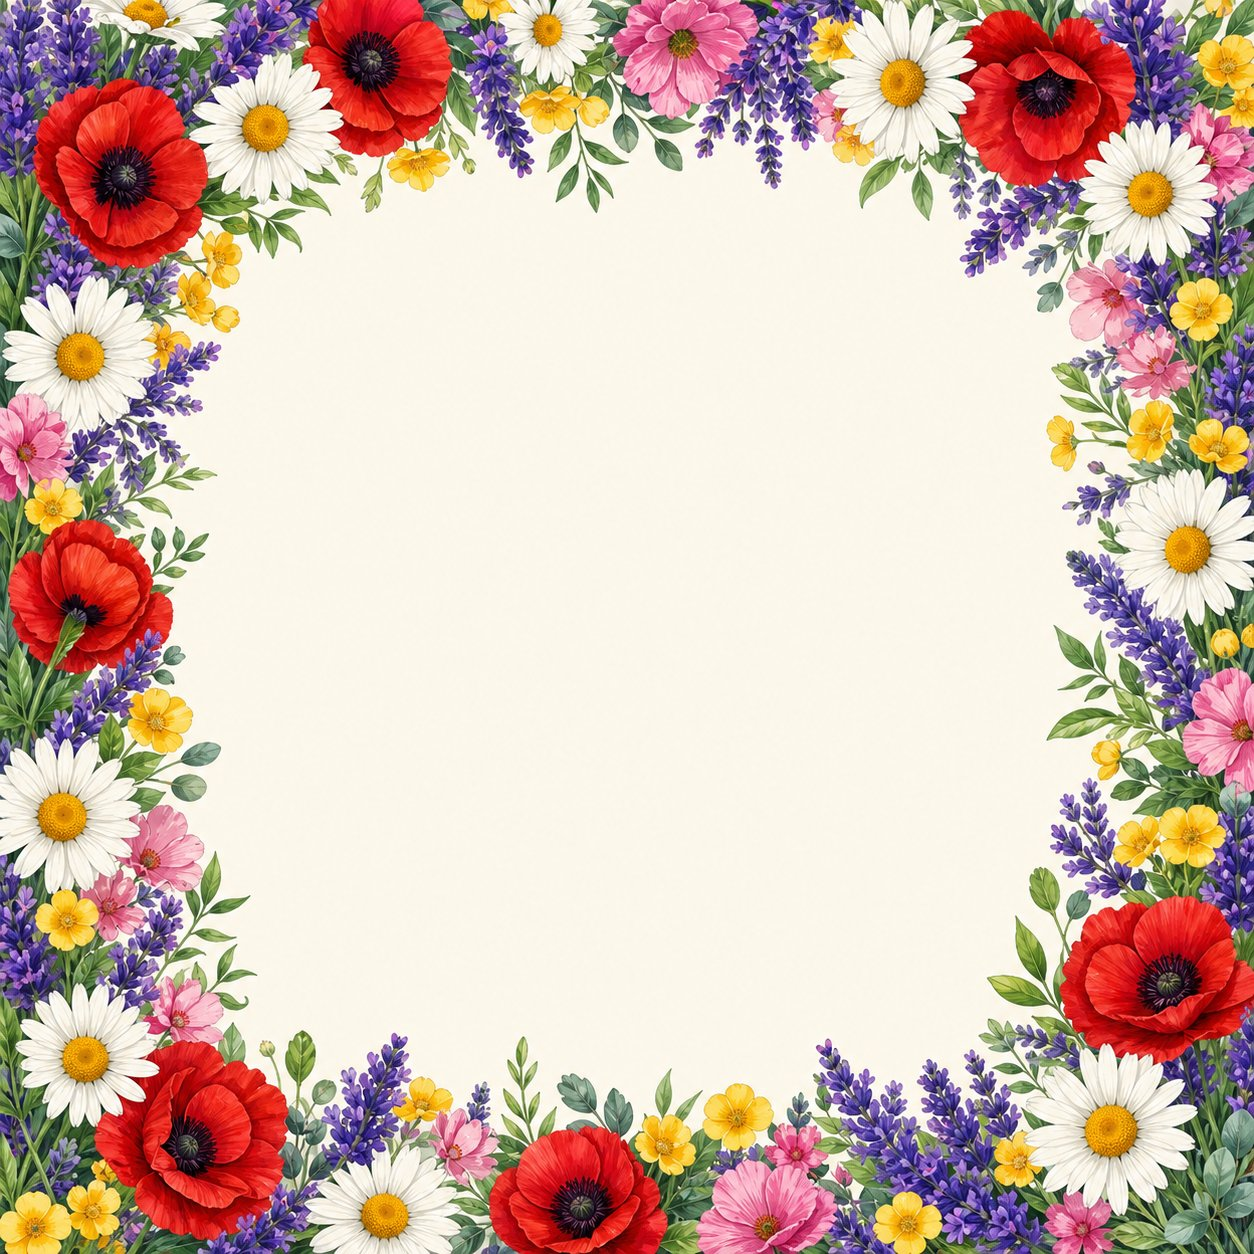
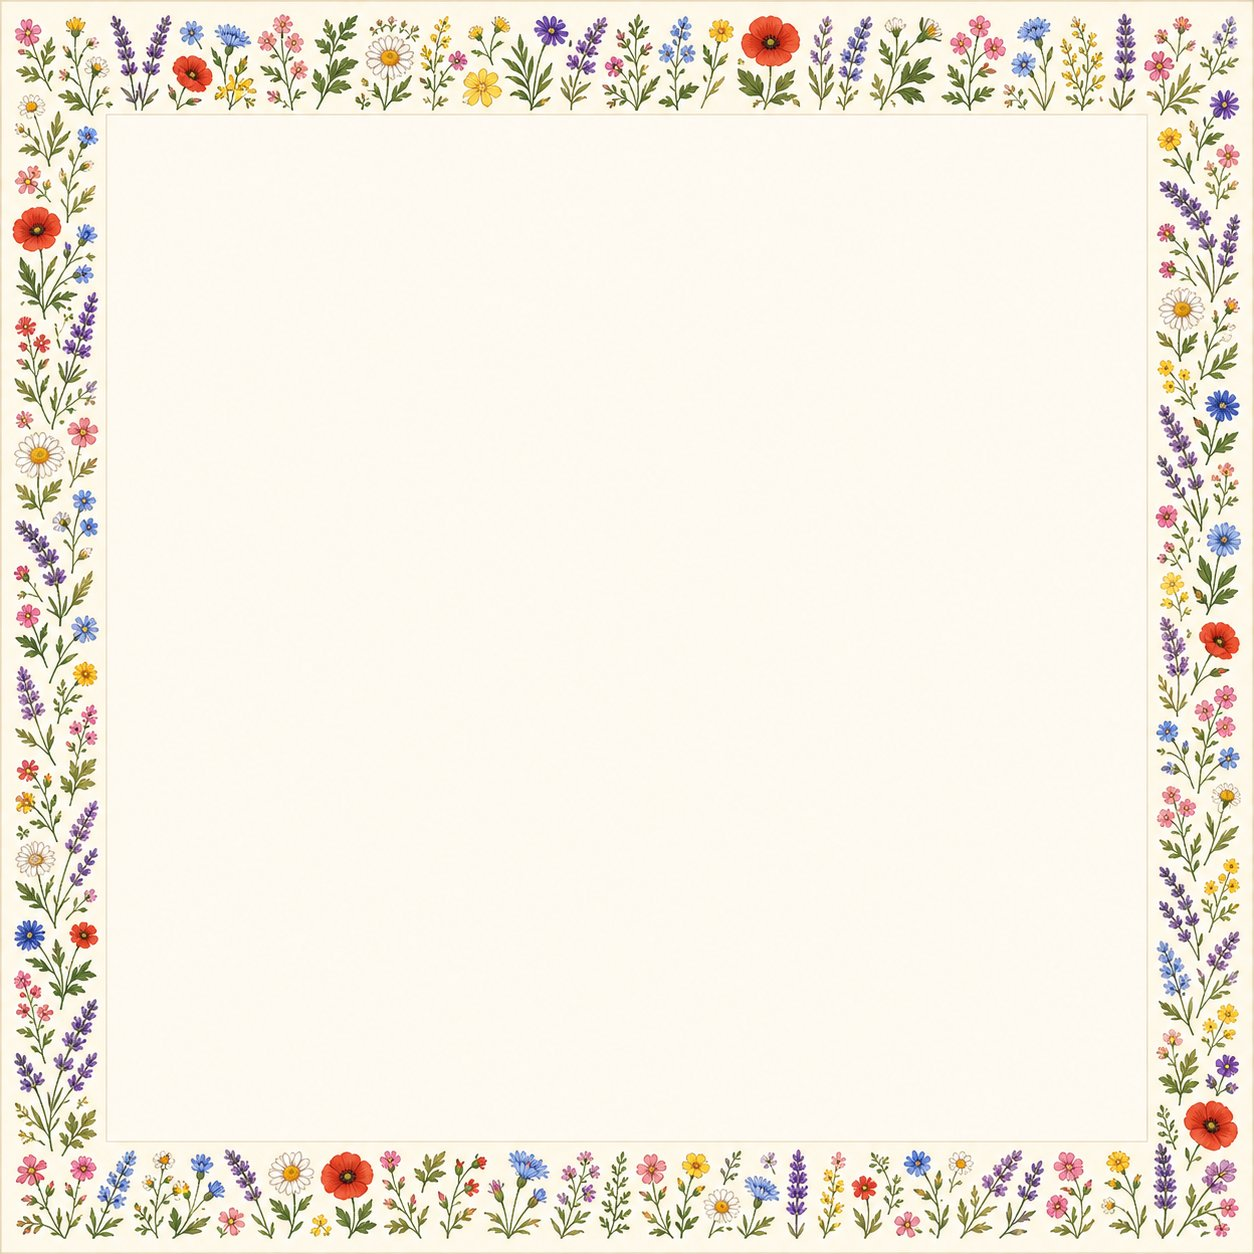
Frames: ornaments no longer trim — feathered card + small complete motifs
User review: the card's hard edge sliced ornament tips (the inner side of
the frame art looked trimmed).

- Feathered card edge (soft blurred halo + solid quiet-zone plate): frame
  ornaments now dissolve gently into the card instead of being cut — fixes
  every frame at render time, verified quiet zone stays pure paper
- Regenerated 6 motif-heavy frames with SMALL COMPLETE ornaments in a
  narrow edge band (sunflower, wildflower, garden, sakura, peacock, royal):
  nothing is cut at the band's inner edge
- 4 new designs + 'Frames' presets: Persian Medallion, Rose Garden, Pine
  Forest, Ocean Wave (23 total) — all ZXing 92/92 + jsQR 92/92 at 512/1024

diff --git a/src/lib/qr/presets.ts b/src/lib/qr/presets.ts
@@ -2554,6 +2554,66 @@ const FRAME_PRESETS: Preset[] = [
       ballShape: "extra-rounded",
     },
   }),
+  frameLook({
+    id: "look-persian",
+    name: "Persian Medallion",
+    blurb: "Gold-teal medallions on ivory",
+    frame: "decor-persian",
+    style: {
+      bg: "#F6F1E7",
+      fg: "#14495A",
+      eyeColor: "#7A6218",
+      ballColor: "#14495A",
+      moduleShape: "squircle",
+      eyeShape: "rounded",
+      ballShape: "rounded",
+    },
+  }),
+  frameLook({
+    id: "look-roses",
+    name: "Rose Garden",
+    blurb: "Cottage roses on blush cream",
+    frame: "decor-roses",
+    style: {
+      bg: "#FBF2EC",
+      fg: "#5C1A33",
+      eyeColor: "#A8265E",
+      ballColor: "#5C1A33",
+      moduleShape: "rounded",
+      eyeShape: "rounded",
+      ballShape: "rounded",
+    },
+  }),
+  frameLook({
+    id: "look-pines",
+    name: "Pine Forest",
+    blurb: "Nordic pines on pale green",
+    frame: "decor-pines",
+    style: {
+      bg: "#EDF4EC",
+      fg: "#1C3B22",
+      eyeColor: "#2D6A3E",
+      ballColor: "#1C3B22",
+      moduleShape: "squircle",
+      eyeShape: "square",
+      ballShape: "square",
+    },
+  }),
+  frameLook({
+    id: "look-ocean",
+    name: "Ocean Wave",
+    blurb: "Curling waves on pale aqua",
+    frame: "decor-ocean",
+    style: {
+      bg: "#EAF5FA",
+      fg: "#0C3D5C",
+      eyeColor: "#0E7490",
+      ballColor: "#0C3D5C",
+      moduleShape: "dots",
+      eyeShape: "extra-rounded",
+      ballShape: "extra-rounded",
+    },
+  }),
 ];
 
 export const PRESETS: Preset[] = [...STYLE_PRESETS, ...buildPresets(), ...PHOTO_PRESETS, ...ART_PRESETS, ...SCENE_PRESETS, ...SALON_PRESETS, ...THEMES_PRESETS, ...FRAME_PRESETS];

diff --git a/src/lib/qr/frames.ts b/src/lib/qr/frames.ts
@@ -35,7 +35,11 @@ export type FrameId =
   | "decor-sunflower"
   | "decor-henna"
   | "decor-arabesque"
-  | "decor-feather";
+  | "decor-feather"
+  | "decor-persian"
+  | "decor-roses"
+  | "decor-pines"
+  | "decor-ocean";
 
 export const FRAME_IDS: FrameId[] = [
   "none",
@@ -65,6 +69,10 @@ export const FRAME_IDS: FrameId[] = [
   "decor-henna",
   "decor-arabesque",
   "decor-feather",
+  "decor-persian",
+  "decor-roses",
+  "decor-pines",
+  "decor-ocean",
 ];
 
 export interface FrameDef {
@@ -103,6 +111,10 @@ export const FRAME_DEFS: FrameDef[] = [
   { id: "decor-henna", label: "Henna", hint: "Mehndi mandala lace" },
   { id: "decor-arabesque", label: "Arabesque", hint: "Geometric tilework" },
   { id: "decor-feather", label: "Peacock", hint: "Peacock feather plumes" },
+  { id: "decor-persian", label: "Persian", hint: "Medallions and paisley" },
+  { id: "decor-roses", label: "Roses", hint: "Cottage rose garland" },
+  { id: "decor-pines", label: "Pine", hint: "Nordic pine forest" },
+  { id: "decor-ocean", label: "Ocean", hint: "Curling waves and shells" },
 ];
 
 /** Decorative frame artwork (public assets) — drawn under the code's card. */
@@ -126,6 +138,10 @@ export const FRAME_ART: Partial<Record<FrameId, string>> = {
   "decor-henna": "/frames/henna.jpg",
   "decor-arabesque": "/frames/arabesque.jpg",
   "decor-feather": "/frames/feather.jpg",
+  "decor-persian": "/frames/persian.jpg",
+  "decor-roses": "/frames/roses.jpg",
+  "decor-pines": "/frames/pines.jpg",
+  "decor-ocean": "/frames/ocean.jpg",
 };
 
 export function isDecorFrame(id: FrameId | string): boolean {

diff --git a/src/lib/qr/render.ts b/src/lib/qr/render.ts
@@ -824,11 +824,22 @@ export function renderQr(
 
   // Decorative art frames: the artwork fills the canvas as a thin border,
   // then a clean paper card covers the whole code area (quiet zone included)
-  // so the decoration never overlaps the modules — the QR stays big, on a
-  // calm high-contrast surface, and scans exactly like an unframed code.
+  // so the decoration never overlaps the modules. The card's edge is
+  // feathered — ornaments dissolve softly into the card instead of being
+  // sliced by a hard line, so the frame reads as complete artwork.
   if (isDecorFrame(frame)) {
     drawFrameArt(ctx, frame, px);
     const pr = Math.max(6, px * 0.032);
+    const g = px * 0.018;
+    // Soft halo (blurred edge) for the dissolve…
+    ctx.save();
+    if ("filter" in ctx) ctx.filter = `blur(${Math.max(2, Math.round(px * 0.011))}px)`;
+    ctx.fillStyle = paper;
+    roundedRect(ctx, insetL - g, insetT - g, usableW + 2 * g, usableH + 2 * g, pr + g, pr + g, pr + g, pr + g);
+    ctx.fill();
+    ctx.restore();
+    // …and a solid plate exactly over the code area so the quiet zone is
+    // guaranteed pure paper.
     ctx.fillStyle = paper;
     roundedRect(ctx, insetL, insetT, usableW, usableH, pr, pr, pr, pr);
     ctx.fill();
